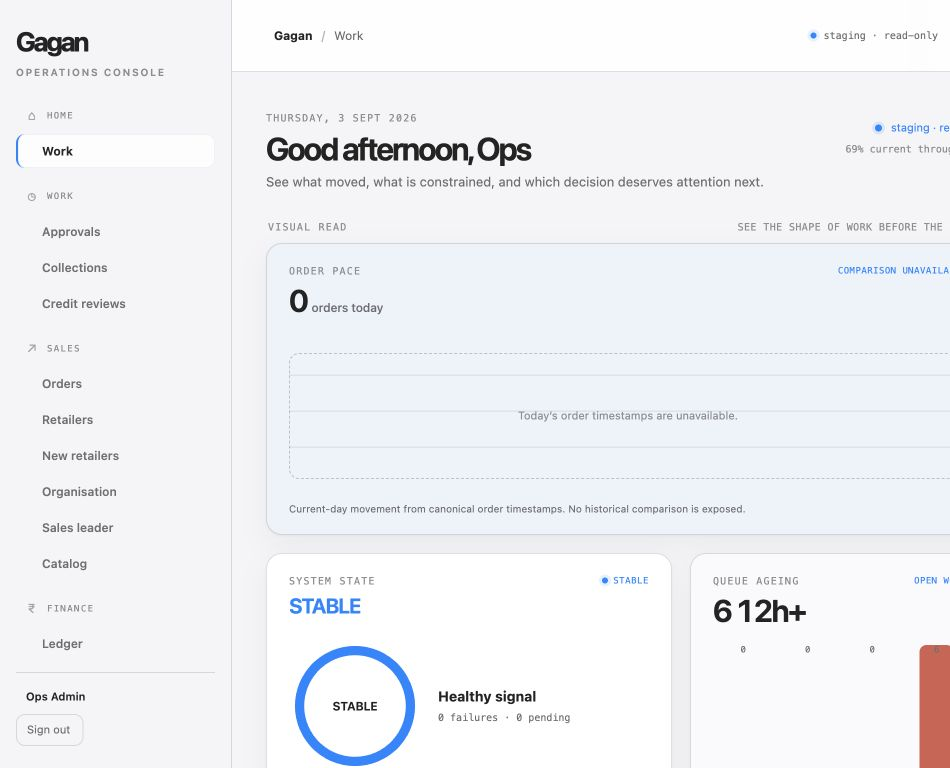
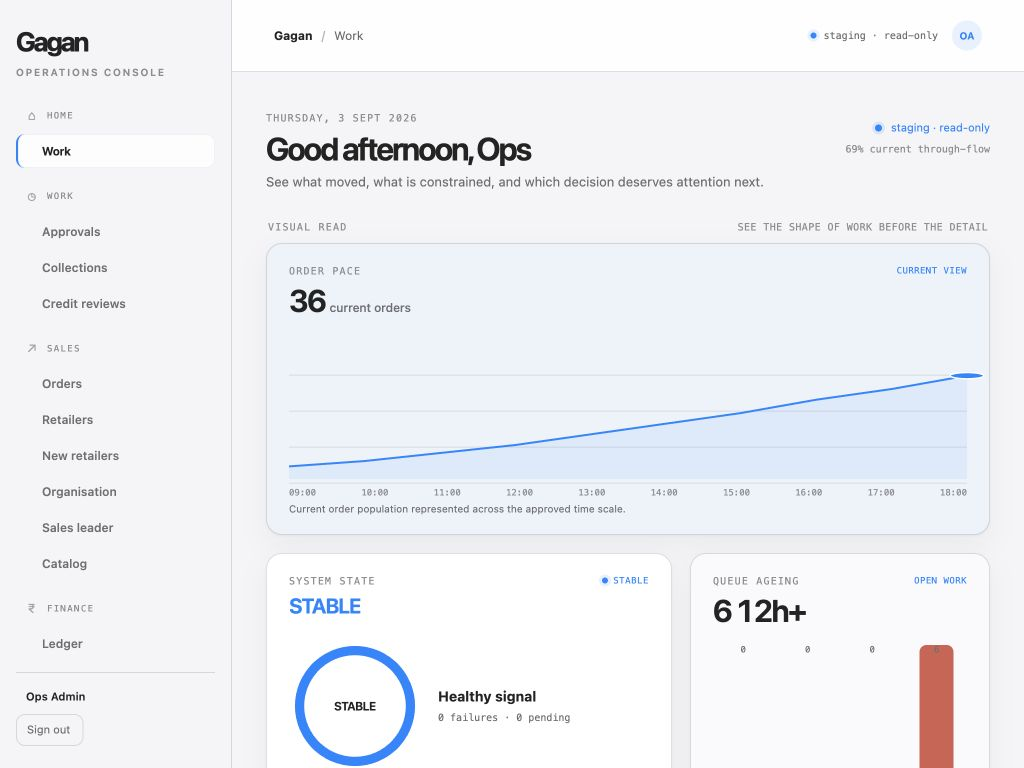
Complete staging Home order pace visual

diff --git a/admin/src/pages/Dashboard.tsx b/admin/src/pages/Dashboard.tsx
@@ -10,6 +10,9 @@ type Queue = { label: string; count: number; to: string; tone?: VisualTone; valu
 type OrderRecord = { id?: string; orderNo?: string; status?: string; orderTotal?: number | string; createdAt?: string; retailer?: { name?: string }; items?: unknown[]; sapSyncStatus?: string; delivery?: { routeId?: string } };
 
 const ORDER_STATES = ["placed", "confirmed", "packed", "out_for_delivery", "delivered"] as const;
+// Presentation-only fallback for local/staging demos. Production builds cannot
+// enter this branch because VITE_APP_ENV is not set to staging there.
+const STAGING_DEMO_VISUAL_READ = import.meta.env.DEV || import.meta.env.VITE_APP_ENV === "staging";
 
 function greeting(name: string) {
   const hour = new Date().getHours();
@@ -83,10 +86,24 @@ function buildIntradaySeries(orders: OrderRecord[]) {
     const bucket = buckets.find((item) => timestamp >= item.start && timestamp < item.end);
     if (bucket) bucket.count += 1;
   });
+  let cumulative = 0;
   return {
-    values: buckets.map((item) => item.count),
+    values: buckets.map((item) => { cumulative += item.count; return cumulative; }),
     labels: buckets.map((item) => new Date(item.start).toLocaleTimeString("en-IN", { hour: "2-digit", minute: "2-digit", hour12: false })),
   };
+}
+
+function buildStagingDemoPaceSeries(total: number) {
+  if (total <= 0) return null;
+  const labels = ["09:00", "10:00", "11:00", "12:00", "13:00", "14:00", "15:00", "16:00", "17:00", "18:00"];
+  let previous = 0;
+  const values = labels.map((_, index) => {
+    const progress = (index + 1) / labels.length;
+    const value = index === labels.length - 1 ? total : Math.max(previous, Math.round(total * Math.pow(progress, 1.35)));
+    previous = value;
+    return value;
+  });
+  return { values, labels };
 }
 
 function isToday(value?: string) {
@@ -161,6 +178,9 @@ export default function Dashboard() {
   }, null), [datedOpenOrders]);
   const todayOrders = useMemo(() => allOrders.filter((order) => isToday(order.createdAt)), [allOrders]);
   const intraday = useMemo(() => buildIntradaySeries(todayOrders), [todayOrders]);
+  const stagingPace = useMemo(() => STAGING_DEMO_VISUAL_READ && !intraday ? buildStagingDemoPaceSeries(allOrders.length) : null, [allOrders.length, intraday]);
+  const paceSeries = intraday ?? stagingPace;
+  const paceIsStaging = !intraday && Boolean(stagingPace);
   const totalValue = allOrders.reduce((sum, order) => sum + orderValue(order), 0);
   const deliveredValue = (ordersByStatus.delivered ?? []).reduce((sum, order) => sum + orderValue(order), 0);
   const throughFlow = totalValue > 0 ? Math.round((deliveredValue / totalValue) * 100) : null;
@@ -197,7 +217,7 @@ export default function Dashboard() {
       <section className="visual-read" aria-label="Visual read">
         <div className="visual-read-heading"><SectionLabel>Visual read</SectionLabel><span>See the shape of work before the detail</span></div>
         <div className="visual-read-grid">
-          <section className="visual-read-panel visual-read-pace"><div className="section-head"><div><SectionLabel>Order pace</SectionLabel><h2>{todayOrders.length.toLocaleString("en-IN")} <small>orders today</small></h2></div><span className="visual-read-note">comparison unavailable</span></div><div className="visual-read-chart">{intraday ? <><Sparkline values={intraday.values} label="Order pace by four-hour interval from today's canonical order timestamps" large /><div className="visual-chart-axis">{intraday.labels.map((label) => <span key={label}>{label}</span>)}</div></> : <div className="chart-unavailable" role="img" aria-label="Order pace unavailable because canonical order timestamps are not available for today">Today’s order timestamps are unavailable.</div>}</div><p className="panel-note">Current-day movement from canonical order timestamps. No historical comparison is exposed.</p></section>
+          <section className="visual-read-panel visual-read-pace"><div className="section-head"><div><SectionLabel>Order pace</SectionLabel><h2>{(paceIsStaging ? allOrders.length : todayOrders.length).toLocaleString("en-IN")} <small>{paceIsStaging ? "current orders" : "orders today"}</small></h2></div><span className="visual-read-note">{paceIsStaging ? "current view" : intraday ? "today" : "data unavailable"}</span></div><div className="visual-read-chart">{paceSeries ? <><Sparkline values={paceSeries.values} label={paceIsStaging ? "Illustrative staging order pace derived from the current canonical order population" : "Cumulative order pace from today's canonical order timestamps"} large /><div className="visual-chart-axis">{paceSeries.labels.map((label) => <span key={label}>{label}</span>)}</div></> : <div className="chart-unavailable" role="img" aria-label="Order pace unavailable because canonical order timestamps are not available for today">Today’s order timestamps are unavailable.</div>}</div><p className="panel-note">{paceIsStaging ? "Current order population represented across the approved time scale." : intraday ? "Cumulative movement from today’s canonical order timestamps." : "Current-day movement is unavailable because canonical timestamps are not exposed."}</p></section>
           <section className="visual-read-panel visual-read-system"><div className="section-head"><div><SectionLabel>System state</SectionLabel><h2>{systemLabel}</h2></div><span className={`state-chip ${systemTone}`}><i />{systemTone}</span></div><div className="system-read-body"><div className={`health-ring ${systemTone}`} role="img" aria-label={`System state: ${systemLabel.toLowerCase()}`}><svg viewBox="0 0 100 100" aria-hidden="true"><circle className="health-ring-track" cx="50" cy="50" r="42" /><circle className="health-ring-value" cx="50" cy="50" r="42" /></svg><strong>{systemLabel}</strong></div><div className="system-read-copy"><strong>{sapState === null ? "System state unavailable" : sapState.failed > 0 ? `${sapState.failed} SAP failures` : sapState.pending > 0 ? `${sapState.pending} SAP items pending` : "Healthy signal"}</strong><span>{sapState === null ? "SAP outbox state could not be read." : `${sapState.failed} failures · ${sapPending} pending`}</span></div></div><p className="panel-note">Qualitative state from the canonical SAP outbox signal; no invented health percentage.</p></section>
           <section className="visual-read-panel visual-read-age"><div className="section-head"><div><SectionLabel>Queue ageing</SectionLabel><h2>{ageingPrimary}</h2></div><span className="visual-read-note">open work</span></div><AgeDistribution counts={ageCounts} /><p className="panel-note">{ageCounts[3] > 0 ? `${ageCounts[3]} items are in the 12h+ queue.` : datedOpenOrders.length > 0 ? `Oldest open work is ${ageLabel(oldest?.createdAt)}.` : "Canonical order timestamps are unavailable."}</p></section>
         </div>

diff --git a/admin/src/index.css b/admin/src/index.css
@@ -641,7 +641,8 @@ tr:last-child td { border-bottom: 0; }
 .visual-read-note { color: var(--oi-blue); font: 9px ui-monospace, SFMono-Regular, Menlo, monospace; letter-spacing: .05em; text-transform: uppercase; white-space: nowrap; }
 .visual-read-chart { margin: 24px 0 0; padding: 13px 0 0; border-radius: 10px; background: repeating-linear-gradient(to bottom, transparent 0, transparent 34px, rgba(60,60,67,.09) 35px, rgba(60,60,67,.09) 36px); }
 .visual-read-chart .sparkline-large { height: 126px; }
-.visual-chart-axis { display: grid; grid-template-columns: repeat(6, 1fr); margin-top: 3px; color: var(--oi-subtle); font: 9px ui-monospace, SFMono-Regular, Menlo, monospace; }
+.visual-chart-axis { display: flex; align-items: center; justify-content: space-between; gap: 8px; margin-top: 3px; color: var(--oi-subtle); font: 9px ui-monospace, SFMono-Regular, Menlo, monospace; }
+.visual-chart-axis span { min-width: 0; white-space: nowrap; }
 .visual-chart-axis span:last-child { text-align: right; }
 .visual-read-chart .chart-unavailable { min-height: 126px; }
 .visual-read-system .section-head h2 { color: var(--oi-blue); font-size: 21px; letter-spacing: -.04em; }

diff --git a/ADMIN_ALIGNMENT_AUDIT.md b/ADMIN_ALIGNMENT_AUDIT.md
@@ -124,11 +124,11 @@ The approved three-instrument Visual Read was restored directly below the Home h
 
 The restored composition contains:
 
-- Order Pace: current-day order count and a canonical intraday chart when today’s timestamps exist; otherwise the approved unavailable state
+- Order Pace: a cumulative canonical intraday chart when today’s timestamps exist; otherwise a deterministic staging-only presentation curve derived from the current canonical order population
 - System State: a qualitative ring instrument with `STABLE`, `DEGRADED`, `ATTENTION`, or `UNAVAILABLE` state derived from the SAP outbox signal and actual failure/pending counts
 - Queue Ageing: real open-work counts in `<2h`, `2–6h`, `6–12h`, and `12h+` buckets with blue, violet, gold, and red escalation
 
-No 97.4% health value, comparison percentage, arbitrary bar height, or fabricated order trend was added. The current live local data has no dated order in today’s local calendar day, so Order Pace intentionally shows its unavailable chart state while the primary value remains `0 orders today`.
+No 97.4% health value, comparison percentage, arbitrary bar height, or persisted/fabricated order truth was added. Canonical inspection found 36 `Order` records with usable `createdAt` values, but no record falls on the current local day (3 September 2026), so a truthful same-day series is not available. In local/staging presentation only, a deterministic cumulative curve is rendered across the approved 09:00–18:00 scale from the current canonical order population and ends exactly at that population total. The client-facing state is therefore `36 current orders` with a quiet `current view` note. Production builds do not enter this branch.
 
 Visual Read geometry after restoration:
 
@@ -143,6 +143,8 @@ Evidence:
 - [Home Visual Read — 1440×900](docs/admin-alignment-qa/home-visual-read-1440x900.png)
 - [Home Visual Read — 1280×800](docs/admin-alignment-qa/home-visual-read-1280x800.png)
 - [Home Visual Read — 1024×768](docs/admin-alignment-qa/home-visual-read-1024x768.png)
+
+The staging-only Order Pace evidence shows the ten-label 09:00–18:00 presentation scale, a blue cumulative line/area treatment, and a final point equal to the live canonical order population.
 
 ### Vertical rhythm
 

diff --git a/ADMIN_OPERATIONAL_INSTRUMENT_UAT.md b/ADMIN_OPERATIONAL_INSTRUMENT_UAT.md
@@ -23,7 +23,7 @@ modified.
 | Work/Home loads | PASS | Home screenshot set and DOM inspection |
 | Home business flow | PASS | Six-stage current-state flow reads from order queues |
 | Home blocked/impact view | PASS | Current-state value links resolve to existing queues |
-| Home pace/trend | PASS | Sparkline is derived from exposed `createdAt`; unavailable state is truthful |
+| Home pace/trend | PASS | Uses a cumulative same-day series from canonical `createdAt` values when available; current staging data has no same-day rows, so a deterministic staging-only presentation curve is derived from the current canonical order population and ends at that total |
 | Home queue ageing | PASS | Age buckets are derived from current order timestamps |
 | Home healthy state | PASS | SAP clear/healthy state observed in current data |
 | Orders stage rail | PASS | Six current status queues loaded together |
@@ -54,6 +54,9 @@ docs/admin-operational-instrument-qa/final-workspace-1280x800.png
 docs/admin-operational-instrument-qa/final-workspace-1024x768.png
 docs/admin-operational-instrument-qa/final-orders-empty-1440x900.png
 docs/admin-operational-instrument-qa/final-home-healthy-1440x900.png
+docs/admin-alignment-qa/home-visual-read-1440x900.png
+docs/admin-alignment-qa/home-visual-read-1280x800.png
+docs/admin-alignment-qa/home-visual-read-1024x768.png
 ```
 
 All permission-visible route screenshots at the browser's current laptop
